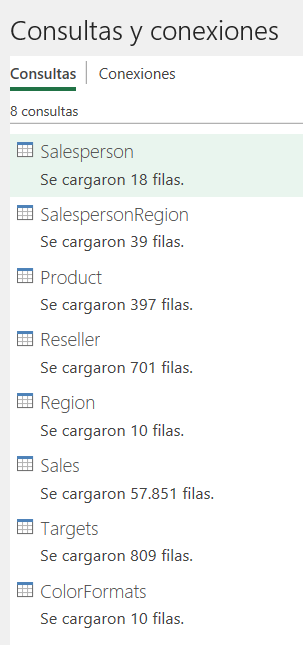
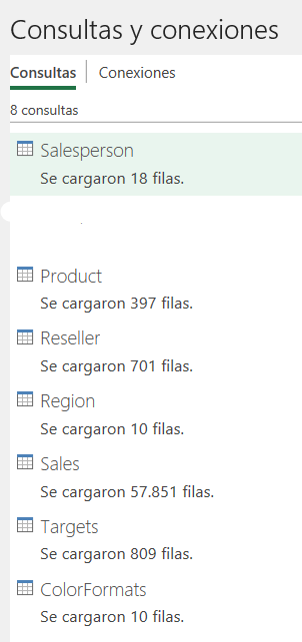
“curso:v3”

diff --git a/Capítulo2/README.md b/Capítulo2/README.md
@@ -1,40 +1,110 @@
-# Nombre del laboratorio 
+# Diseño de un modelo de datos en Power Pivot y Creación de elementos visuales
+
+En este laboratorio, comenzará a desarrollar el modelo de datos. Esto implicará crear relaciones entre tablas y configurar las propiedades de las tablas y columnas para mejorar la facilidad de uso del modelo de datos. Además, creará jerarquías y definirá medidas para análisis avanzados. Como parte adicional, también diseñará visualmente tablas dinámicas, KPI y gráficos dinámicos para presentar y analizar los datos de manera efectiva.
 
 ## Objetivo de la práctica:
 Al finalizar la práctica, serás capaz de:
-- Objetivo1
-- Objetivo2
-- Objetivo3
+- Crear relaciones
+- Configurar propiedades de tablas y columnas
+- Crear Jerarquías y KPI
+- Crear Tablas Dinámicas
+- Crear Gráficos Dinámicos
 
-## Objetivo Visual 
-Crear un diagrama o imagen que resuma las actividades a realizar, un ejemplo es la siguiente imagen. 
-
-![diagrama1](../images/img1.png)
 
 ## Duración aproximada:
-- xx minutos.
+- 70 minutos.
 
-## Tabla de ayuda:
-Agregar una tabla con la información que pueda requerir el participante durante el laboratorio, como versión de software, IPs de servers, usuarios y credenciales de acceso.
-| Contraseña | Correo | Código |
-| --- | --- | ---|
-| Netec2024 | edgardo@netec.com | 123abc |
 
-## Instrucciones 
-<!-- Proporciona pasos detallados sobre cómo configurar y administrar sistemas, implementar soluciones de software, realizar pruebas de seguridad, o cualquier otro escenario práctico relevante para el campo de la tecnología de la información -->
-### Tarea 1. Descripción de la tarea a realizar.
-Paso 1. Debe de relatar el instructor en verbo infinito, claro y conciso cada actividad para ir construyendo paso a paso en el objetivo de la tarea.
+### Tarea 1. Creación de relaciones.
 
-Paso 2. <!-- Añadir instrucción -->
+- Paso 1. De la cinta superior de opciones, seleccione la pestaña **Power Pivot** y luego, en la sección de **Modelo de datos**, seleccione **Administrar**.
 
-Paso 3. <!-- Añadir instrucción -->
+    ![img](./images/imgT1P1.png) 
 
-### Tarea 2. Descripción de la tarea a realizar.
-Paso 1. Debe de relatar el instructor en verbo infinito, claro y conciso cada actividad para ir construyendo paso a paso en el objetivo de la tarea.
+- Paso 2. En la ventana de Power Pivot, encontrará una pestaña para cada consulta que creamos en el laboratorio anterior. Dentro de cada una de estas pestañas, podrá ver la información correspondiente a los datos que importamos y transformamos previamente.
 
-Paso 2. <!-- Añadir instrucción -->
+    ![img](./images/imgT1P2.png) 
 
-Paso 3. <!-- Añadir instrucción -->
+- Paso 3. Seleccione en la parte superior, en la cinta de opciones, la pestaña **Inicio**. Luego, en la sección **Ver**, haga clic sobre el elemento **Vista de diagrama**.
+
+    ![img](./images/imgT1P3.png) 
+
+- Paso 4. En la vista actual del modelo, seleccione en la parte superior la pestaña **Diseñar** y luego haga clic en **Administrar relaciones**. Observe que aún no se ha definido ninguna relación. Para crear una relación, seleccione **Nueva relación**.
+
+- Paso 5. Configure la relación de la tabla de Product a la tabla de Sales. 
+
+    > • En la ventana de **Crear relación**, seleccione la tabla **Product** y luego seleccione la columna **ProductKey**.<br>
+
+    > • Luego, en la lista desplegable, seleccione **Sales** y asegúrese de que se resalte la columna **ProductKey** correspondiente. <br>
+
+    > • Asegúrese de que en la parte inferior izquierda esté marcada la casilla de **Activa**.
+
+    ![img](./images/imgT1P5.png) 
+
+- Paso 6. Note que en la vista del modelo, la relación ya aparece creada.
+
+  > • El tipo de cardinalidad es de uno a varios (1:*). La cardinalidad se detectó automáticamente, ya que Power Pivot entiende que la columna **ProductKey** de la tabla **Product** contiene valores únicos. Las relaciones de uno a varios son la cardinalidad más común, y todas las relaciones que cree en este laboratorio serán de este tipo.
+
+  > • El tipo de dirección del filtro cruzado es **Único**.En este caso, significa que los filtros aplicados a la tabla **Product** se propagarán a la tabla **Sales**, pero no en la dirección opuesta.
+
+  > •  Hacer que esta relación esté activa. Las relaciones activas propagan filtros. Es posible marcar una relación como inactiva para que los filtros no se propaguen. Las relaciones inactivas pueden existir cuando hay varias rutas de acceso de relación entre tablas. 
+
+    ![img](./images/imgT1P6.png) 
+
+- Paso 7.  Para crear una nueva relación con una técnica diferente, desde la tabla **Reseller**, arrastre la columna **ResellerKey** a la columna **ResellerKey** de la tabla **Sales**.
+
+    ![img](./images/imgT1P7.png) 
+
+- Paso 8. Utilice la nueva técnica para crear las relaciones siguientes:
+
+  > • Region | SalesTerritoryKey --> Sales | SalesTerritoryKey <br>
+
+  > • Salesperson | EmployeeID --> Targets | EmployeeID
+
+
+  > • Salesperson | EmployeeKey --> Sales | EmployeeKey 
+
+- Paso 9. En el diagrama, organice las tablas de modo que la tabla **Sales** se coloque en el centro del diagrama y las tablas relacionadas se organicen a su alrededor. Coloque las tablas desconectadas a un lado.
+
+    ![img](./images/imgT1P9.png) 
+
+
+### Tarea 2. Cargar valores a una tabla dinámicas
+
+- Paso 1. Desde la pestaña superior **Inicio**, seleccione **Tabla dinámica** y luego, nuevamente, haga clic en **Tabla dinámica**.
+
+    ![img](./images/imgT2P1.png) 
+
+- Paso 2. En la ventana que aparece, utilice los valores predeterminados y haga clic en **Aceptar**.
+
+    ![img](./images/imgT2P2.png)  
+
+- Paso 3. Aparecera la tabla dinamica para que pueda agregar los campos que desea mostrar.
+
+    ![img](./images/imgT2P3.png)  
+
+- Paso 4. Seleccione de **Salesperson** | **Salesperson** y de **Sales | Sales**, en automatico crea una suma del campo **Sales**
+
+    ![img](./images/imgT2P4.png)  
+
+
+### Tarea 3. Crear la tabla Fecha
+
+- Paso 1. Cambie a la vista de modelo. En la pestaña de la cinta de opciones **Diseñar**, en el grupo **Calendarios**, seleccione **Tabla de fechas**.
+
+    ![img](./images/imgT3P1.png)  
+
+- Paso 2. Desde la vista de diagrama, notará que se creo una nueva tabla llamada **Date** 
+
+- Paso 3. Relacione la taba **Date** con el modelo
+
+    ![img](./images/imgT3P3.png)  
+
+- Paso 4. Desde la pestaña de **Inicio** Cambien la vista a **Vista de Datos** 
+
+- Paso 5. Valide la información que se creo en automatico para la tabla **Date**
+
+- Paso 6. En la esquina inferior izquierda, en la barra de estado, observe las estadísticas de la tabla, que confirman que se han generado 1826 filas de datos, lo que representa datos de cinco años completos.
 
 ### Resultado esperado
 En esta sección se debe mostrar el resultado esperado de nuestro laboratorio

diff --git a/Capítulo1/README.md b/Capítulo1/README.md
@@ -46,7 +46,6 @@ Al finalizar la práctica, serás capaz de:
 - Paso 10. Para importar los datos de la tabla, seleccione la casilla de verificación situada junto a las siguientes tablas y luego seleccione **Aceptar**:
 
         • DimEmployee
-        • DimEmployeeSalesTerritory
         • DimProduct
         • DimReseller
         • DimSalesTerritory
@@ -60,7 +59,7 @@ Ahora se ha conectado a seis tablas de una base de datos de SQL Server.
 
 Esta tarea le permite revisar y generar perfiles de los datos. Esto le ayuda a determinar cómo limpiar y transformar los datos más adelante. También revisará las tablas de dimensiones con el prefijo "Dim" y las tablas de hechos con el prefijo "Fact".
 
-- Paso 1.En la ventana Editor de Power Query, a la izquierda, observe el panel Consultas. El panel Consultas contiene una consulta para cada tabla que ha seleccionado:
+- Paso 1. En la ventana Editor de Power Query, a la izquierda, observe el panel Consultas. El panel Consultas contiene una consulta para cada tabla que ha seleccionado:
 
     ![img](./images/imgT2P1.png) 
 
@@ -106,13 +105,10 @@ Esta tarea le permite revisar y generar perfiles de los datos. Esto le ayuda a d
 
 - Paso 14. Coloque el cursor sobre la barra de **Ware House** y observe que hay cinco filas con este valor.
 
-- Paso 15. En el panel **Consultas**, seleccione la consulta **DimSalesTerritory**.
-    >*La tabla contiene una fila por región de ventas, incluida la sede central corporativa. Las regiones se asignan a un país y los países se asignan a grupos.*
-
-- Paso 16. En el panel Consultas, seleccione la consulta **FactResellerSales**.
+- Paso 15. En el panel Consultas, seleccione la consulta **FactResellerSales**.
     >*La tabla contiene una fila por línea de pedido de ventas: un pedido de ventas contiene uno o varios elementos de línea*.
 
-- Paso 17. Revise la calidad de la columna **TotalProductCost** y observe que el 8 % de las filas están vacías.
+- Paso 16. Revise la calidad de la columna **TotalProductCost** y observe que el 8% de las filas están vacías.
     >*La falta de valores de columna es un problema de calidad de los datos.*
 
     ![img](./images/imgT2P17.png) 
@@ -202,7 +198,7 @@ Esta tarea le permite revisar y generar perfiles de los datos. Esto le ayuda a d
 
     ![img](./images/imgT4P16.png) 
 
-### Tarea 5. Configuración de la consulta SalespersonRegion
+
 
 - Paso 1. En el panel Consultas, seleccione la consulta **DimEmployeeSalesTerritory**.
 
@@ -215,7 +211,7 @@ Esta tarea le permite revisar y generar perfiles de los datos. Esto le ayuda a d
 - Paso 5. En la barra de estado, compruebe que la consulta tiene 2 columnas y 39 filas.
     ![img](./images/imgT5P5.png)  
 
-### Tarea 6. Configurar la consulta del Product
+### Tarea 5. Configurar la consulta del Product
 
 - Paso 1. Seleccione la consulta **DimProduct** y cambie el nombre de la consulta a **Product**.
 
@@ -260,7 +256,7 @@ Esta tarea le permite revisar y generar perfiles de los datos. Esto le ayuda a d
 
     ![img](./images/imgT6P11.png) 
 
-### Tarea 7. Configurar la consulta de Reseller
+### Tarea 6. Configurar la consulta de Reseller
 
 - Paso 1. Seleccione la consulta **DimReseller** y cambie el nombre a **Reseller**.
 - Paso 2. Elimine todas las columnas, excepto las siguientes:
@@ -301,7 +297,7 @@ Esta tarea le permite revisar y generar perfiles de los datos. Esto le ayuda a d
 
     ![img](./images/imgT7P9.png)  
 
-### Tarea 8. Configurar la consulta de Region
+### Tarea 7. Configurar la consulta de Region
 
 - Paso 1. Seleccione la consulta **DimSalesTerritory** y cambie el nombre de la consulta a **Region**.
 
@@ -327,7 +323,7 @@ Esta tarea le permite revisar y generar perfiles de los datos. Esto le ayuda a d
 
     ![img](./images/imgT8P6.png)  
 
-### Tarea 9. Configurar la consulta de Sales
+### Tarea 8. Configurar la consulta de Sales
 
 - Paso 1. Seleccione la consulta **FactResellerSales** y cámbiele el nombre a **Sales**.
 
@@ -393,7 +389,7 @@ Esta tarea le permite revisar y generar perfiles de los datos. Esto le ayuda a d
 
     ![img](./images/imgT9P11.png) 
 
-### Tarea 10. Configurar la consulta de Targets
+### Tarea 9. Configurar la consulta de Targets
 
 - Paso 1. Seleccione la consulta **ResellerSalesTargets** y cambie el nombre a **Targets**.
 
@@ -459,7 +455,7 @@ Esta tarea le permite revisar y generar perfiles de los datos. Esto le ayuda a d
 
     ![img](./images/imgT10P18.png) 
 
-### Tarea 11. Configuración de la consulta ColorFormats 
+### Tarea 10. Configuración de la consulta ColorFormats 
 
  - Paso 1. Seleccione la consulta **ColorFormats** y observe que la primera fila contiene los nombres de columna.
 
@@ -471,7 +467,7 @@ Esta tarea le permite revisar y generar perfiles de los datos. Esto le ayuda a d
 
      ![img](./images/imgT11P3.png) 
 
-### Tarea 12. Actualizar la consulta del Product 
+### Tarea 11. Actualizar la consulta del Product 
 
 - Paso 1. Seleccione la consulta **Product**.
 
@@ -522,7 +518,7 @@ Esta tarea le permite revisar y generar perfiles de los datos. Esto le ayuda a d
 
     ![img](./images/imgR3.png)
 
-Ahora puede ver la vista de **Excel**, con el panel de **Consultas y conexiones** a la derecha, observe las 8 tablas cargadas en el modelo de datos.
+Ahora puede ver la vista de **Excel**, con el panel de **Consultas y conexiones** a la derecha, observe las 7 tablas cargadas en el modelo de datos.
 
 ![img](./images/imgR4.png)
 
